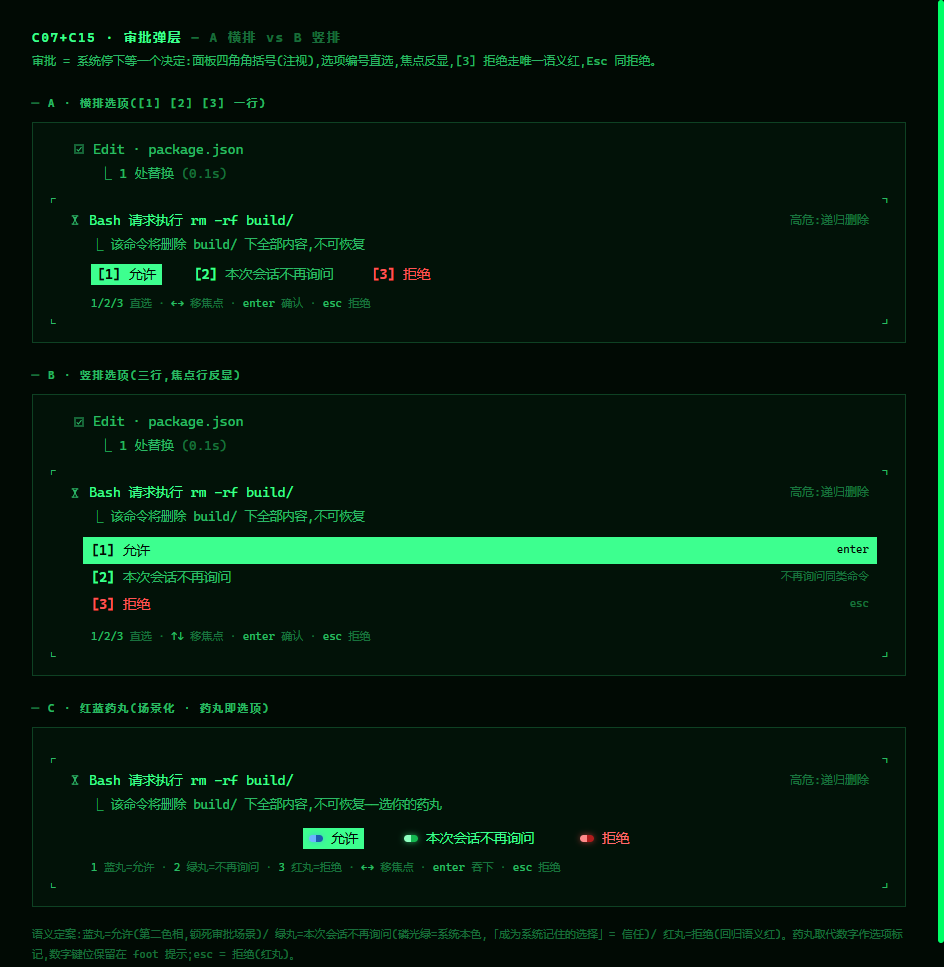
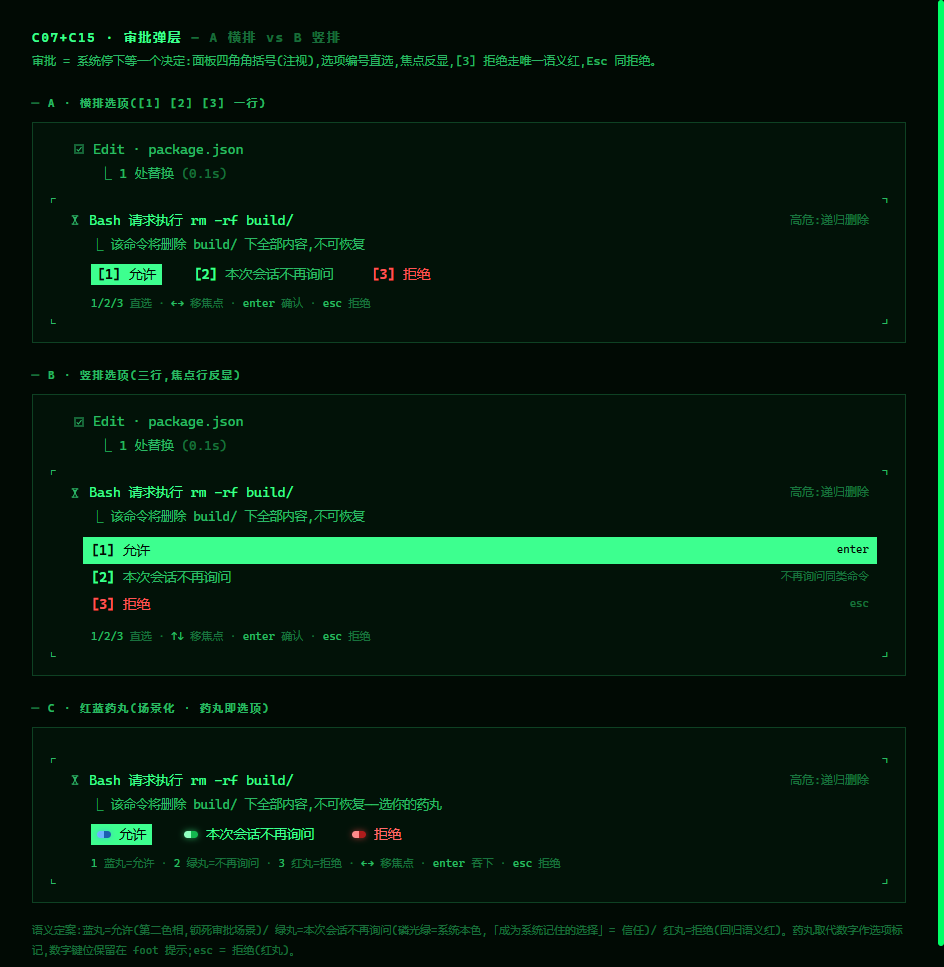
feat(proto): 审批药丸选项行左对齐落位;新增滚动条肌理药丸三变体 demo(待裁决)

Changed region(s): [[0.0307, 0.9307, 0.9523, 0.9928], [0.0922, 0.8376, 0.5837, 0.8997], [0.6144, 0.8376, 0.6758, 0.8687]]

diff --git a/ui-prototype/pill-variants/pill-scrollbar-proto.html b/ui-prototype/pill-variants/pill-scrollbar-proto.html
@@ -1,0 +1,125 @@
+<!DOCTYPE html>
+<!-- PROTOTYPE — throwaway: 药丸样式变体 · 第二轮(按全局滚动条肌理重设计)
+     滚动条 DNA(§2.2):6px 全圆角胶囊 / 纯色平涂 / 无渐变无描边 / 透明轨道——安静的小色块。
+     V1 直译平涂(纯色胶囊,零辉光) / V2 平涂微光(V1 + 单色 55% 外晕) / V3 轨道滑囊(薄色轨道 + 实色滑囊,滑囊位置编码语义)
+     裁决:哪款丸形取代 §2.11 的双色半囊(V2 定稿)。 -->
+<html lang="zh">
+<head>
+<meta charset="utf-8">
+<title>药丸变体 · 滚动条肌理</title>
+<style>
+  :root {
+    --bg: #010a04;
+    --surface: rgba(2, 18, 9, 0.92);
+    --p100: rgba(61, 255, 143, 1);
+    --p70: rgba(61, 255, 143, 0.7);
+    --p40: rgba(61, 255, 143, 0.4);
+    --p20: rgba(61, 255, 143, 0.2);
+    --blue: #3f9dff;
+    --green: #3dff8f;
+    --red: #ff4d4d;
+    --font: "Share Tech Mono", ui-monospace, "Cascadia Mono", "Courier New", "Sarasa Term SC", "Microsoft YaHei", monospace;
+  }
+  * { margin: 0; padding: 0; box-sizing: border-box; }
+  body { background: var(--bg); color: var(--p100); font: 15px/1.55 var(--font); padding: 28px 32px; }
+  *::-webkit-scrollbar { width: 6px; height: 6px; }
+  *::-webkit-scrollbar-thumb { background: #00ff66; border-radius: 3px; }
+  *::-webkit-scrollbar-track, *::-webkit-scrollbar-corner { background: transparent; }
+
+  h1 { font-size: 13px; letter-spacing: 0.12em; margin-bottom: 4px; }
+  h1 .tag { color: var(--p40); }
+  .rule { color: var(--p70); font-size: 12px; margin-bottom: 20px; }
+  h2 { font-size: 11px; letter-spacing: 0.14em; color: var(--p70); margin: 22px 0 8px; text-transform: uppercase; }
+  h2::before { content: "─ "; color: var(--p40); }
+  h2 .d { color: var(--p40); letter-spacing: 0; text-transform: none; }
+
+  .lane { border: 1px solid var(--p20); background: var(--surface); padding: 12px 16px 14px; margin-bottom: 14px; }
+  .opts-pill { display: flex; gap: 26px; margin-left: 22px; font-size: 13.5px; }
+  .popt { display: inline-flex; gap: 8px; align-items: center; padding: 0 6px; }
+  .popt.allow .lbl { color: #6db3ff; }
+  .popt.trust .lbl { color: var(--p100); }
+  .popt.deny  .lbl { color: #ff6b6b; }
+  .popt.focus { background: var(--p100); }
+  .popt.focus .lbl { color: var(--bg) !important; }
+  .cp { flex: none; }
+  .spec { display: flex; gap: 60px; margin: 10px 0 0 22px; }
+  .spec .cell { text-align: center; }
+  .spec .zoom { transform: scale(4); transform-origin: center; margin: 16px 0 6px; display: inline-block; }
+  .spec .nm { font-size: 10.5px; color: var(--p40); letter-spacing: 0.08em; margin-top: 2px; }
+
+  /* V1 直译平涂:与滚动条完全同肌理——纯色胶囊,零辉光零渐变 */
+  .v1 .cp { width: 14px; height: 6px; border-radius: 3px; }
+  .v1 .allow .cp { background: var(--blue); }
+  .v1 .trust .cp { background: var(--green); }
+  .v1 .deny  .cp { background: var(--red); }
+
+  /* V2 平涂微光:V1 + 单色 55% 外晕(暗底可读性) */
+  .v2 .cp { width: 14px; height: 6px; border-radius: 3px; }
+  .v2 .allow .cp { background: var(--blue);  box-shadow: 0 0 6px rgba(63,157,255,0.55); }
+  .v2 .trust .cp { background: var(--green); box-shadow: 0 0 6px rgba(61,255,143,0.55); }
+  .v2 .deny  .cp { background: var(--red);   box-shadow: 0 0 6px rgba(255,77,77,0.55); }
+
+  /* V3 轨道滑囊:22×6 薄色轨道(20%)+ 内嵌 10×4 实色滑囊;位置编码:允许=居右(放行)/ 信任=居中(锁定)/ 拒绝=居左(退回) */
+  .v3 .cp { width: 22px; height: 6px; border-radius: 3px; position: relative; }
+  .v3 .allow .cp { background: rgba(63,157,255,0.2); }
+  .v3 .trust .cp { background: rgba(61,255,143,0.2); }
+  .v3 .deny  .cp { background: rgba(255,77,77,0.2); }
+  .v3 .cp::after { content: ""; position: absolute; top: 1px; width: 10px; height: 4px; border-radius: 2px; }
+  .v3 .allow .cp::after { right: 1px; background: var(--blue); }
+  .v3 .trust .cp::after { left: 6px; background: var(--green); }
+  .v3 .deny  .cp::after { left: 1px; background: var(--red); }
+
+  .note { color: var(--p40); font-size: 11px; line-height: 1.8; margin-top: 6px; }
+</style>
+</head>
+<body>
+
+<h1>药丸变体 · 滚动条肌理 <span class="tag">— 蓝=允许 / 绿=信任 / 红=拒绝</span></h1>
+<div class="rule">全局滚动条 = 6px 平涂胶囊(§2.2 锚点)。三款都从这里出发:同一条「安静小色块」的血统,差别只在光与轨道。对照物:现行 §2.11 定稿 = 双色半囊渐变。</div>
+
+<h2>V1 · 直译平涂 <span class="d">纯色胶囊 14×6,零辉光——与滚动条完全同肌理,最静</span></h2>
+<div class="lane v1">
+  <div class="opts-pill">
+    <span class="popt allow focus"><span class="cp"></span><span class="lbl">允许</span></span>
+    <span class="popt trust"><span class="cp"></span><span class="lbl">本次会话不再询问</span></span>
+    <span class="popt deny"><span class="cp"></span><span class="lbl">拒绝</span></span>
+  </div>
+  <div class="spec">
+    <div class="cell"><span class="zoom"><span class="popt allow"><span class="cp"></span></span></span><div class="nm">允许</div></div>
+    <div class="cell"><span class="zoom"><span class="popt trust"><span class="cp"></span></span></span><div class="nm">信任</div></div>
+    <div class="cell"><span class="zoom"><span class="popt deny"><span class="cp"></span></span></span><div class="nm">拒绝</div></div>
+  </div>
+</div>
+
+<h2>V2 · 平涂微光 <span class="d">V1 + 单色 55% 外晕——同肌理但暗底更跳,接近旧 V1 实心辉光</span></h2>
+<div class="lane v2">
+  <div class="opts-pill">
+    <span class="popt allow focus"><span class="cp"></span><span class="lbl">允许</span></span>
+    <span class="popt trust"><span class="cp"></span><span class="lbl">本次会话不再询问</span></span>
+    <span class="popt deny"><span class="cp"></span><span class="lbl">拒绝</span></span>
+  </div>
+  <div class="spec">
+    <div class="cell"><span class="zoom"><span class="popt allow"><span class="cp"></span></span></span><div class="nm">允许</div></div>
+    <div class="cell"><span class="zoom"><span class="popt trust"><span class="cp"></span></span></span><div class="nm">信任</div></div>
+    <div class="cell"><span class="zoom"><span class="popt deny"><span class="cp"></span></span></span><div class="nm">拒绝</div></div>
+  </div>
+</div>
+
+<h2>V3 · 轨道滑囊 <span class="d">薄色轨道 + 实色滑囊——滚动条全景;滑囊位置编码:允许=右 / 信任=中 / 拒绝=左</span></h2>
+<div class="lane v3">
+  <div class="opts-pill">
+    <span class="popt allow focus"><span class="cp"></span><span class="lbl">允许</span></span>
+    <span class="popt trust"><span class="cp"></span><span class="lbl">本次会话不再询问</span></span>
+    <span class="popt deny"><span class="cp"></span><span class="lbl">拒绝</span></span>
+  </div>
+  <div class="spec">
+    <div class="cell"><span class="zoom"><span class="popt allow"><span class="cp"></span></span></span><div class="nm">允许·滑囊居右</div></div>
+    <div class="cell"><span class="zoom"><span class="popt trust"><span class="cp"></span></span></span><div class="nm">信任·居中锁定</div></div>
+    <div class="cell"><span class="zoom"><span class="popt deny"><span class="cp"></span></span></span><div class="nm">拒绝·居左退回</div></div>
+  </div>
+</div>
+
+<div class="note">判断点:V1 最克制(与滚动条、发丝线系统零冲突,但三色在 1× 下靠色不靠形);V2 是 V1 的可读性补强;V3 唯一带「形」的语义(滑囊方向=决定方向),但读作 toggle,药丸联想最弱。焦点反显行(C08)下,V1/V2 的平涂丸在绿底上仍可辨,V3 的轨道会融进绿底。</div>
+
+</body>
+</html>

diff --git a/ui-prototype/approval/approval-proto.html b/ui-prototype/approval/approval-proto.html
@@ -67,7 +67,7 @@
   .note { color: var(--p40); font-size: 11px; line-height: 1.8; margin-top: 6px; }
 
   /* ── C 红蓝药丸(选项 = 药丸标记,无手;V2 双色半囊定稿) ── */
-  .opts-pill { display: flex; justify-content: center; gap: 34px; margin: 14px 0 2px; font-size: 13.5px; }
+  .opts-pill { display: flex; gap: 26px; margin: 2px 0 0 22px; font-size: 13.5px; }
   .popt { display: inline-flex; gap: 8px; align-items: center; padding: 0 6px; }
   .popt .cap-pill { width: 14px; height: 7px; border-radius: 4px; flex: none; }
   .popt.allow .cap-pill { background: linear-gradient(90deg, #6db3ff 0 48%, #1c5fb0 52% 100%); box-shadow: 0 0 6px rgba(63,157,255,0.55); }
